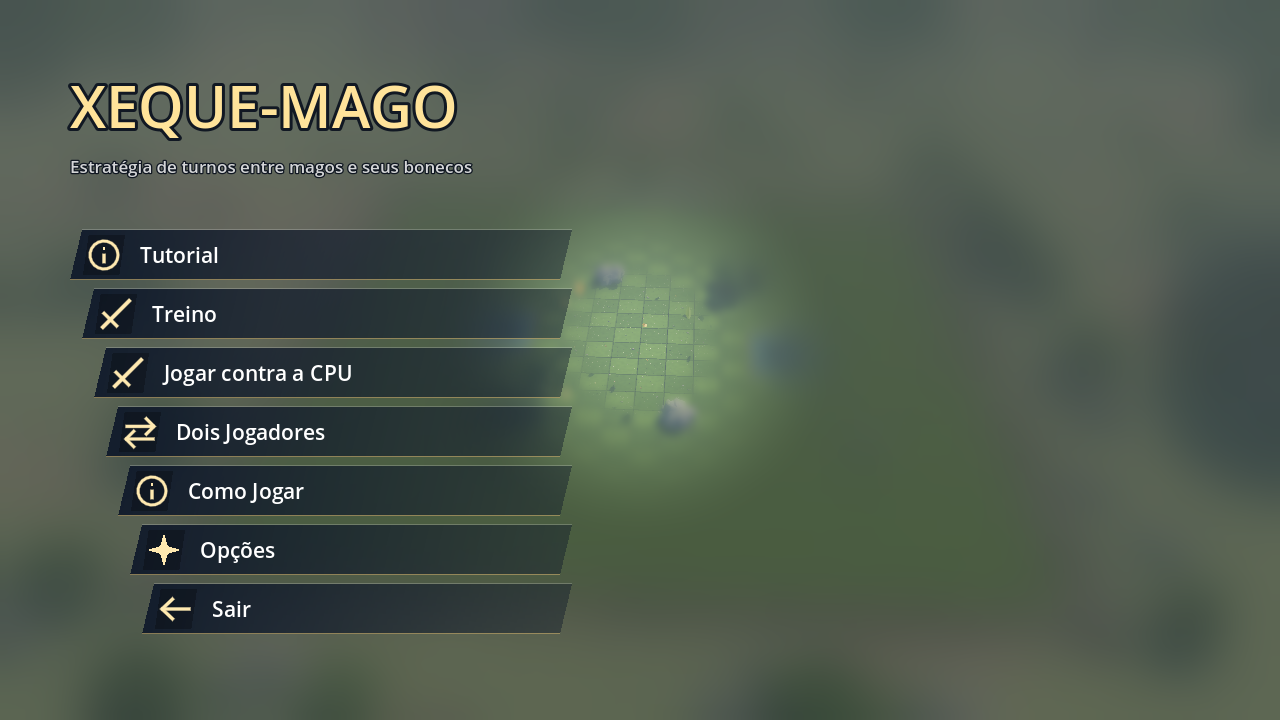
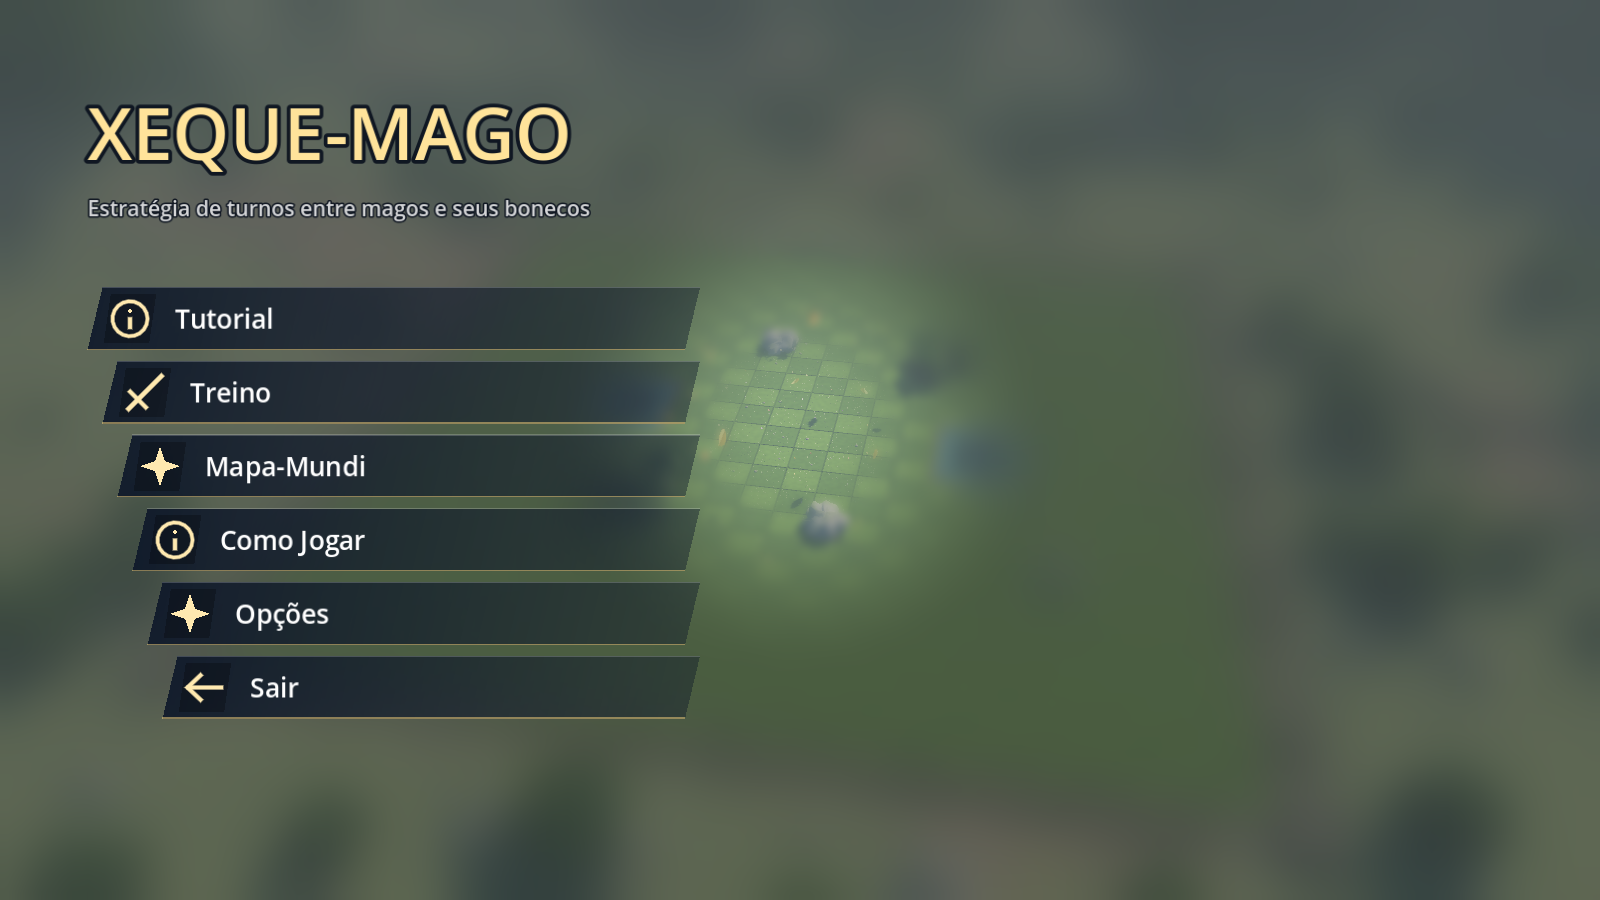
README da v0.6: Mapa-Mundi da Grande Floresta, arenas por lugar e Turno-Mútuo

diff --git a/README.md b/README.md
@@ -3,11 +3,11 @@
 Estratégia de turnos em voxel: cada jogador tem um **Mago**, que é o rei, e um exército de bonecos.
 Derrube o Mago inimigo para vencer, sem perder o seu.
 
-![Arena](imagens/02_arena.png)
+![Mapa-Mundi](imagens/16_mapa_mundi.jpg)
 
 ## Baixar e jogar (Windows)
 
-1. Abra a aba **[Releases](../../releases/latest)** e baixe `XequeMago-v0.5.1-windows.zip`.
+1. Abra a aba **[Releases](../../releases/latest)** e baixe `XequeMago-v0.6-windows.zip`.
 2. Extraia o zip numa pasta.
 3. Rode `XequeMago.exe`. Os dois arquivos (`.exe` e `.pck`) precisam ficar na mesma pasta.
 
@@ -21,10 +21,71 @@ Se o jogo pesar no seu PC, vá em **Opções → Qualidade gráfica** e escolha 
 
 ## Modos
 
+- **Mapa-Mundi**: escolha um lugar da Grande Floresta e batalhe ali, **contra a CPU** ou com **dois jogadores**
+  no mesmo computador, no estilo **Normal** ou **Turno-Mútuo**
 - **Tutorial**: 11 lições curtas, uma para cada parte do jogo
 - **Treino**: um campo com bonecos de pancada para testar os golpes de qualquer boneco
-- **Contra a CPU**
-- **Dois jogadores** no mesmo computador, passando a vez
+
+## Mapa-Mundi
+
+O mundo é uma maquete em miniatura. Por enquanto só a **Grande Floresta** está pintada; o resto do continente
+ainda é gesso com o desenho a lápis e vai ganhando cor a cada versão. Arraste para andar, gire com o botão
+direito e aproxime com a roda. Clicando num lugar, abre o painel com a prévia da arena de luta.
+
+Cada lugar é um local de verdade, com casas, gente andando e coisas para ver:
+
+| Lugar | O que tem |
+|---|---|
+| Vila dos Lenhadores | Cabanas de tronco, pátio com pilhas de toras, fogueira e lenhadores rachando lenha |
+| Vila Élfica | Casas de telhado pontudo e casas nas árvores, lampiões verdes e o campo de treino das arqueiras |
+| Ruínas do Golem | Um vale atrás da montanha, só alcançado pelo túnel do rio; uma ruína meio aberta sob uma laje de rocha enorme, onde dorme o primeiro Golem |
+| Lar da Árvore Anciã | A árvore mais velha do mundo, com raízes enormes, vagalumes e o lago |
+| Floresta das Fadas | Sempre primavera: árvores rosadas e círculos de cogumelos que brilham |
+| Estalagem da Encruzilhada | Onde todas as trilhas se cruzam: estalagem, estrebaria, carroças e viajantes |
+
+![Vila dos Lenhadores](imagens/17_vila_dos_lenhadores.jpg)
+
+![Vila Élfica](imagens/18_vila_elfica.jpg)
+
+![Ruínas do Golem, atrás da montanha](imagens/19_ruinas_do_golem.jpg)
+
+![O túnel do rio](imagens/21_tunel_do_rio.jpg)
+
+![Estalagem da Encruzilhada](imagens/20_estalagem.jpg)
+
+![Lar da Árvore Anciã](imagens/22_arvore_ancia.jpg)
+
+No meio da mata ainda há lugares soltos em clareiras (Totem Gigante, Torre do Vigia, Torre Partida, Círculo de
+Menires, Poço dos Desejos, Estátua Esquecida, cabanas e um acampamento) que vão ganhar uso nas próximas versões.
+
+![Lugares da mata](imagens/23_lugares_da_mata.jpg)
+
+### Arenas de luta
+
+Como num jogo de monstrinhos, o lugar onde se anda e o lugar onde se luta são diferentes: a arena é uma "média" do
+lugar, sem casas nem gente. Na dos lenhadores há tocos e uma tora atravessada no meio da pista; na ruína, lajes,
+colunas partidas e um muro caído; na Árvore Anciã, raízes enormes; nas fadas, cogumelos gigantes; na
+encruzilhada, a estrada de terra cruzando o campo e caixotes caídos de uma carroça.
+
+![As seis arenas](imagens/25_arenas.jpg)
+
+![Painel do lugar](imagens/24_painel_turno_mutuo.jpg)
+
+## Turno-Mútuo
+
+Além do estilo **Normal** (um jogador de cada vez), dá para jogar no **Turno-Mútuo**: os dois planejam escondido e
+tudo acontece ao mesmo tempo, o que deixa a partida bem difícil de prever. Escolha o estilo no painel do lugar.
+
+1. Os dois jogadores planejam sem ver o plano do outro (contra outra pessoa, o jogo pede para passar a vez).
+2. Poderes do Mago, trocas de peça e posturas de defesa saem primeiro; depois os troncos e pedras quebrados.
+3. Todos andam juntos. Dois bonecos indo para a mesma casa rolam o D20: o maior entra, e no empate ninguém entra.
+   Dois que trocariam de lugar trombam e ficam onde estavam.
+4. Um golpe numa casa de onde o alvo saiu se perde.
+5. **Choque**: dois bonecos que se atacam na mesma rodada rolam o D20. O maior golpeia e o golpe do outro se perde;
+   no empate, os dois golpeiam.
+6. Os outros golpes saem numa ordem sorteada.
+
+![Planejando no Turno-Mútuo](imagens/26_turno_mutuo.jpg)
 
 ## Tutorial
 
@@ -62,6 +123,10 @@ A defesa do Mago tem **três etapas**:
 
 ![Totem](imagens/07_totem.png)
 
+- **Exército.** Cada lado monta o exército com **30 pontos** numa área de 10x4 casas e começa com **5 de mana**
+  (sobe 1 por rodada, até 10).
+- **Quebrar.** Todo boneco (menos o Mago) pode quebrar de uma vez um tronco, pedra ou muro colado nele. Gasta o
+  ataque do turno, mas ele ainda pode andar depois e passar pela brecha.
 - **Santuários.** O boneco que chega a um santuário dourado escolhe uma bênção que vale até o fim da partida:
   **Ataque** (+2 de dano), **Defesa** (defende com 3 a menos no dado) ou **Velocidade** (+1 casa por movimento).
   Cada boneco recebe uma bênção por partida.
@@ -117,19 +182,18 @@ Na escolha do exército, o botão **!** ao lado de cada boneco abre a ficha dele
 
 ![Ficha do boneco](imagens/10_ficha.png)
 
-## Mapas e eventos aleatórios
+## Eventos aleatórios
 
-Cinco mapas, cada um com 3 eventos. Cada evento é anunciado uma rodada antes num cartaz no meio da tela, com as casas
+Cada arena tem 3 eventos. Cada evento é anunciado uma rodada antes num cartaz no meio da tela, com as casas
 atingidas marcadas em vermelho; quando acontece, aparece o efeito no tabuleiro (chuva, neve, areia, pedras caindo...)
 e, se durar mais de uma rodada, um aviso no canto mostra quantas rodadas faltam:
 
-| Mapa | Eventos |
+| Arenas | Eventos |
 |---|---|
-| Floresta Antiga | Névoa Fina, Raízes Vivas, Chuva de Verão |
-| Dunas de Âmbar | Tempestade de Areia, Sol a Pino, Areia Movediça |
-| Pântano Sombrio | Maré Cheia, Névoa do Brejo, Esporos |
-| Picos Gelados | Nevasca, Geada, Avalanche |
-| Caverna Cristalina | Desabamento, Cristal Ressonante, Escuridão |
+| Grande Floresta (Lenhadores, Élfica, Árvore Anciã, Fadas, Encruzilhada) | Névoa Fina, Raízes Vivas, Chuva de Verão |
+| Ruínas do Golem | Desabamento, Cristal Ressonante, Escuridão |
+
+Os mapas do deserto, do pântano e da neve voltam quando essas regiões forem pintadas no Mapa-Mundi.
 
 ![Evento: névoa](imagens/06_evento_nevoa.png)
 
@@ -150,5 +214,5 @@ bugs e ideias. Prints ajudam muito.
 
 ---
 
-Versão 0.5.1 (protótipo). Feito com Godot 4.5. Este repositório traz apenas o jogo para download;
+Versão 0.6 (protótipo). Feito com Godot 4.5. Este repositório traz apenas o jogo para download;
 o código-fonte não está público.
